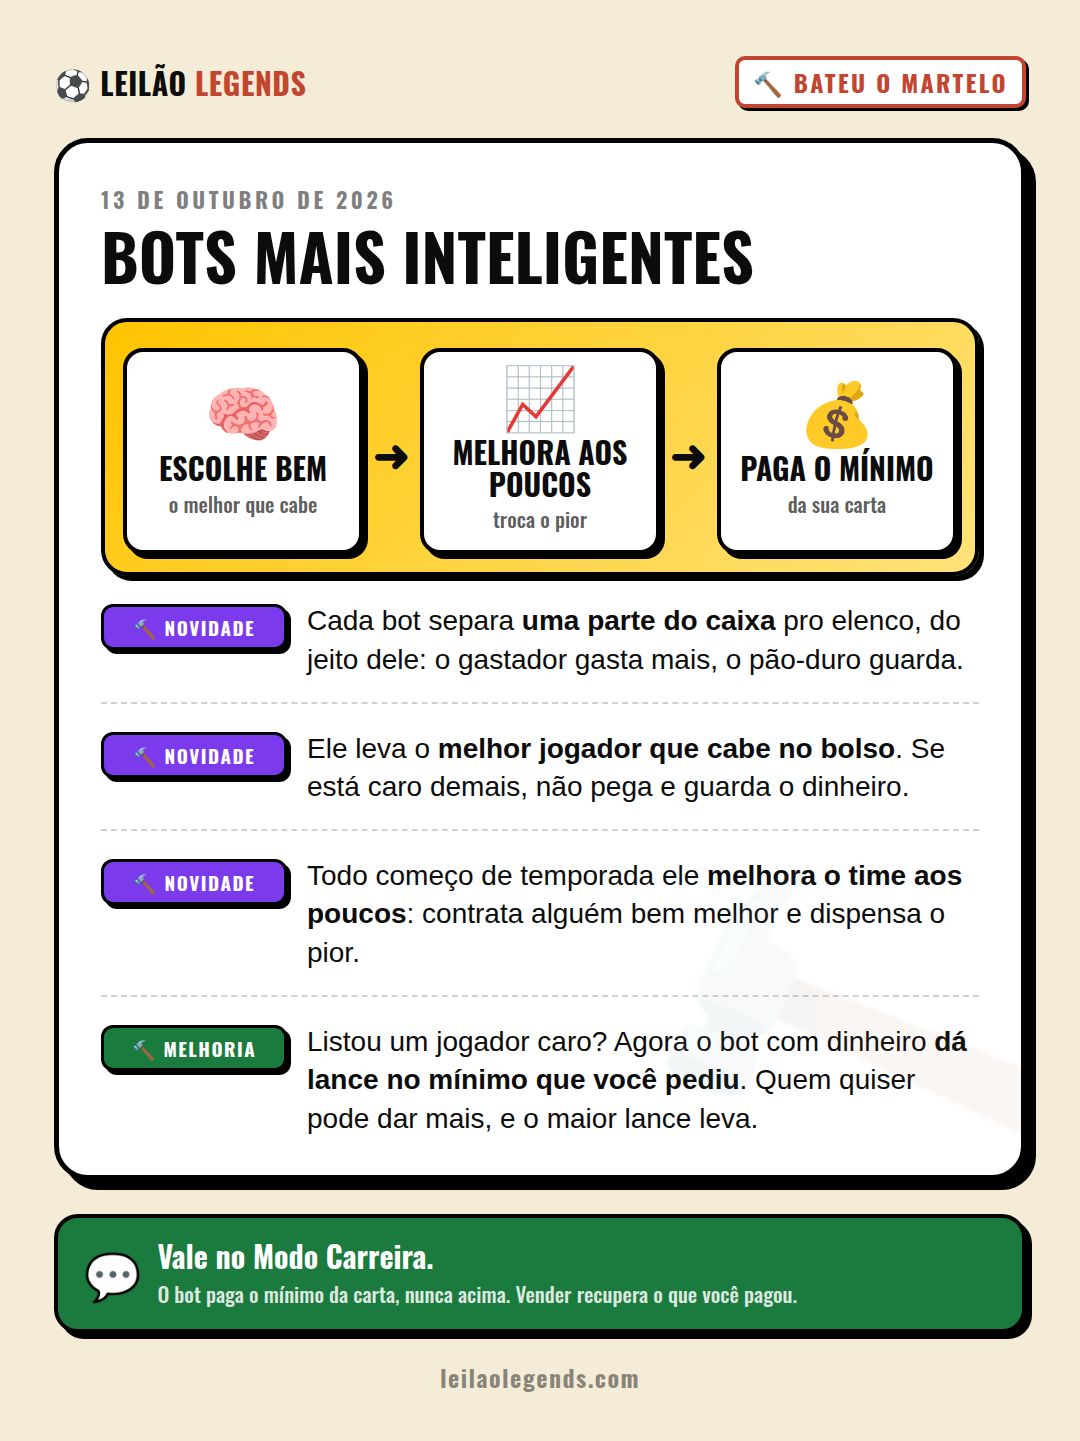
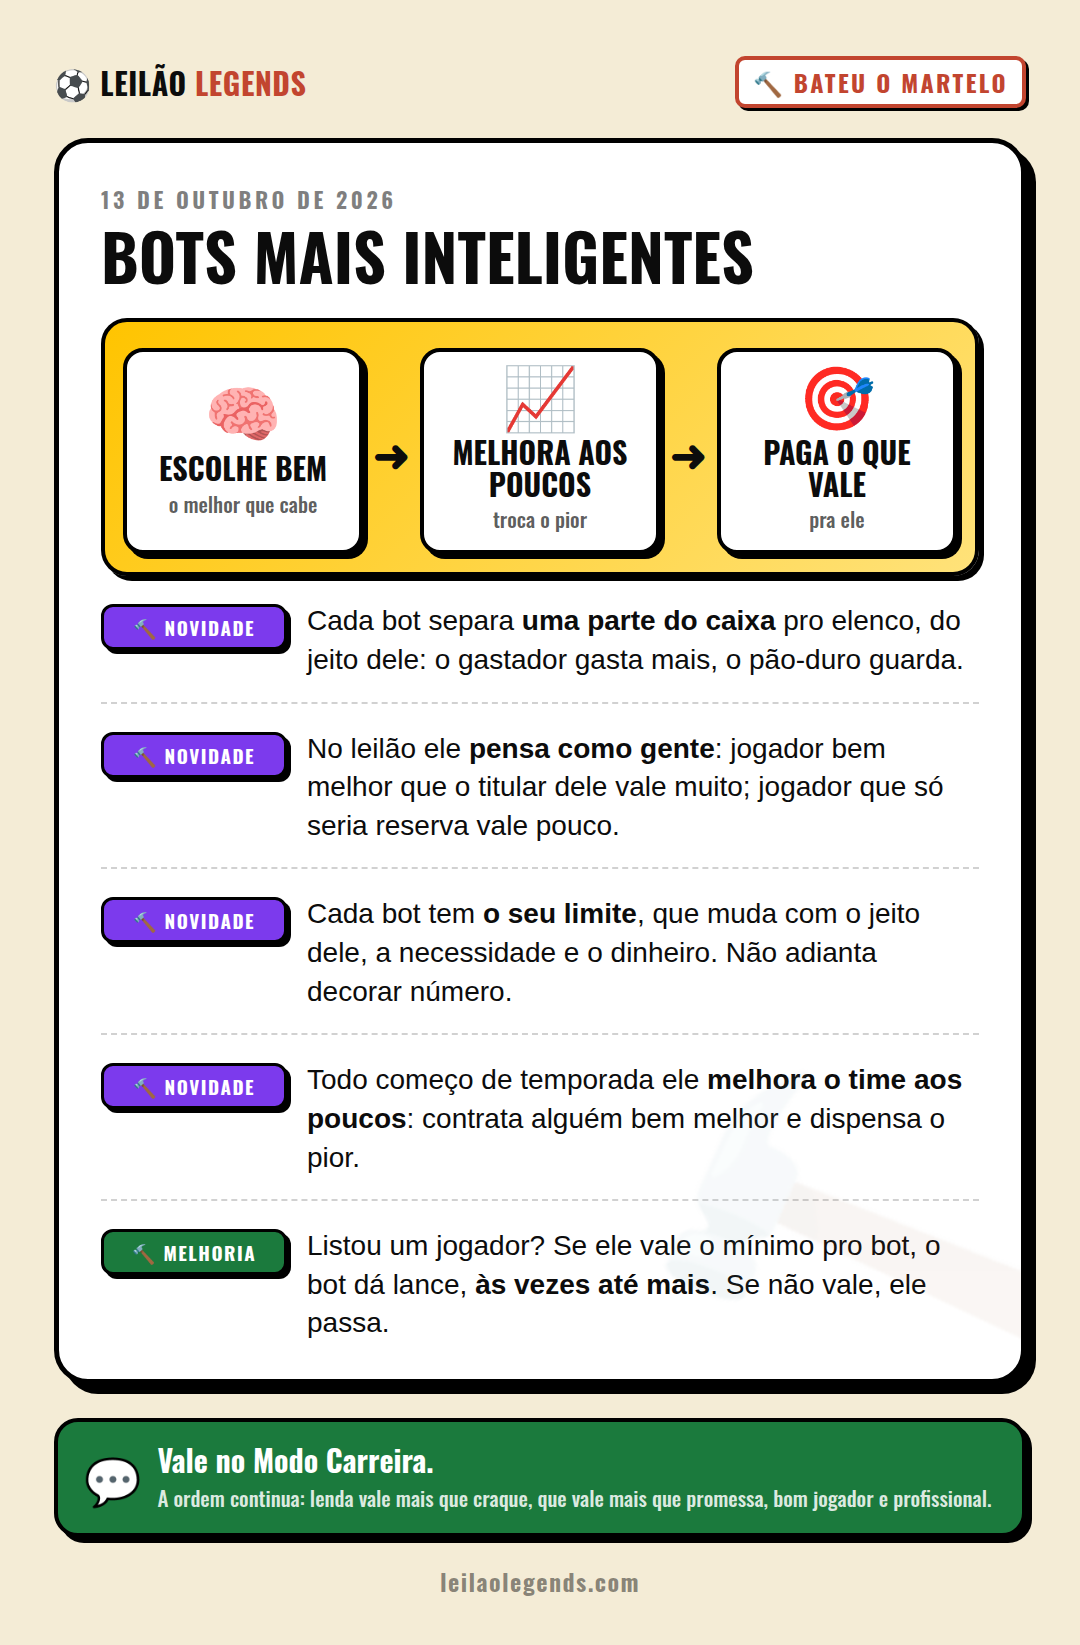
Carreira: bot pensa como gente no leilão — teto próprio por necessidade, bolso, perfil e tempero (ordem das categorias mantida), mínimo só filtra; exagero de qualquer bot não sobe o piso; aviso atualizado
Claude-Session: https://claude.ai/code/session_018Ap1zPCMVL9XeZJN3u93ZA

diff --git a/src/escalacao/store.tsx b/src/escalacao/store.tsx
@@ -2245,7 +2245,7 @@ function fairPrice(v: number): number {
 // 🎭 `perfil` (07/10, `perfis-bot.ts`): o jeito de comprar do clube bot NA CARREIRA —
 // gastador, pão-duro, obcecado, imprevisível ou equilibrado. 'equilibrado' (o padrão, e
 // o que partida rápida/salas sempre recebem) é o leilão de antes, sem mudar nem o rng.
-export function cpuEnvelope(m: Manager, cards: Card[], sectorIdx: number, rng: () => number, rescue: boolean, catCapEcon = 0, perfil: PerfilBot = 'equilibrado', obsessao?: Sector, pagaPisoDoDono = false): (Bid & { cardId: string })[] {
+export function cpuEnvelope(m: Manager, cards: Card[], sectorIdx: number, rng: () => number, rescue: boolean, catCapEcon = 0, perfil: PerfilBot = 'equilibrado', obsessao?: Sector, pensaComoGente = false): (Bid & { cardId: string })[] {
   const pos = SECTORS[sectorIdx]
   // FAKE NÃO SEGURA VAGA (só CPU): incógnito no elenco conta como vaga aberta —
   // o bot briga por jogador REAL e, se estourar o teto, o fake é dispensado no
@@ -2289,6 +2289,26 @@ export function cpuEnvelope(m: Manager, cards: Card[], sectorIdx: number, rng: (
     // alcançam ⭐ da mesma época, por mais rico que o bot seja.
     let cap = Math.max(2, Math.round(fairPrice(t.v) * (0.85 + m.aggression * 0.5 + rng() * 0.3) * (catCapEcon > 0 ? catCapEcon : 1)))
     if (catCapEcon > 0) cap = Math.min(cap, Math.max(2, Math.round(catPriceCap(t.c) * catCapEcon * (0.8 + rng() * 0.25))))
+    // 🧠 BOT QUE PENSA COMO GENTE (Diego 13/10, carreira solo): o teto deixa de ser o número fixo da
+    // categoria e vira o teto DESTE bot, nesta carta: categoria (lenda > craque > promessa > bom >
+    // profissional, sempre nessa ordem) × economia da sala × o quanto ele PRECISA do jogador × um
+    // tempero só dele (fixo por bot+carta, ninguém decora o número). Quem é bem melhor que o titular
+    // dele vale o teto cheio (e um pouco mais); parecido, ~60%; só reserva, ~35%. O perfil (gastador/
+    // pão-duro…) ainda mexe logo abaixo. O que ele pagar acima do justo NÃO sobe o piso da carta
+    // (`travaPisoDoBot`), então salário e renovação não disparam.
+    if (pensaComoGente) {
+      const nv = (c: { lo: number; hi: number }) => c.lo + c.hi
+      const titulares = m.squad.filter(c => c.pos === pos && !c.fake).sort((a, b) => nv(b) - nv(a)).slice(0, baseSlots(m.formation, pos))
+      const piorTitular = titulares.length < baseSlots(m.formation, pos) ? null : titulares[titulares.length - 1]
+      const ganho = piorTitular ? nv(t.c) - nv(piorTitular) : 99
+      const necessidade = ganho >= 6 ? 1.15 : ganho >= -4 ? 0.6 : 0.35
+      let hh = 2166136261; const chaveT = `${m.id}|${t.c.name}|${t.c.club}|${t.c.year}`
+      for (let k = 0; k < chaveT.length; k++) { hh ^= chaveT.charCodeAt(k); hh = Math.imul(hh, 16777619) }
+      const tempero = 0.85 + ((hh >>> 0) % 1000) / 1000 * 0.3 // 0,85–1,15
+      cap = Math.max(2, Math.round(catPriceCap(t.c) * (catCapEcon > 0 ? catCapEcon : 1) * necessidade * tempero))
+      // 💰 o bolso: numa carta só, até metade do caixa se for titular; até 1/3 se for reserva
+      cap = Math.min(cap, Math.max(2, Math.floor(m.money * (ganho >= 6 ? 0.5 : 0.34))))
+    }
     // 🧱 pacote vale pelos jogadores que o bot vai escalar dele, não por um só
     if (t.c.pacote) cap = cap * Math.max(1, baseSlots(m.formation, pos))
     // 🎭 perfil mexe no teto (gastador estica por craque, pão-duro nunca passa do justo…)
@@ -2303,15 +2323,10 @@ export function cpuEnvelope(m: Manager, cards: Card[], sectorIdx: number, rng: (
     const floor = (t.c as { paid?: number }).paid ?? 0
     if (floor > 0) {
       if (wallet < floor) continue
-      if (cap + 3 < floor) {
-        // 💰 O BOT ALCANÇA O MÍNIMO DO DONO (Diego 13/10, carreira): carta com mínimo acima do que
-        // ele acha que vale — o caso do Marcelo listado a 194 que nenhum bot olhava. Se o clube tem
-        // caixa (o mínimo cabe em 1/3 do dinheiro dele), ele dá EXATAMENTE o mínimo, nunca mais:
-        // assim quem listou recupera o que pagou, mas não dá pra lucrar comprando e listando.
-        // Gente pode dar mais junto; o envelope maior leva, como sempre.
-        if (!pagaPisoDoDono || floor * 3 > m.money) continue
-        amt = floor
-      } else amt = Math.max(amt, floor)
+      // igual gente: se o que a carta vale PRA ELE não chega no mínimo, não dá lance; se chega,
+      // o lance fica entre o mínimo e o teto dele (13/10 — saiu o "ir até o mínimo" do mesmo dia)
+      if (cap + 3 < floor) continue
+      amt = Math.max(amt, floor)
     }
     amt = Math.min(amt, wallet)
     if (amt > 0) { result.push({ mgr: m.id, amount: amt, cardId: t.c.id }); left -= amt; wallet -= amt }
@@ -2323,7 +2338,7 @@ export function cpuEnvelope(m: Manager, cards: Card[], sectorIdx: number, rng: (
 function perfilNoLeilao(state: EscState, m: Manager): [PerfilBot, Sector | undefined, boolean] {
   if (!state.careerOnline || m.isHuman) return ['equilibrado', undefined, false]
   const p = perfilDoClube(m.teamName, state.seed ?? 0)
-  // 3º: o bot pode alcançar o mínimo do dono (13/10) — só carreira solo, junto do rival com banco
+  // 3º: o bot PENSA COMO GENTE (13/10): teto pela necessidade + bolso — só carreira solo, junto do rival com banco
   return [p, p === 'obcecado' ? setorDaObsessao(m.teamName, state.seasonNo ?? 1) as Sector : undefined, state.onlineMode !== 'online' && botBancoLiberado()]
 }
 // 🚫📈 o PREÇO JUSTO da carta pra o livro e pro piso (o exagero do gastador não entra):
@@ -2338,8 +2353,8 @@ export function justoDaCarta(state: EscState, c: Card): number {
 // registrada pelo justo (livro + `paid` no elenco dele). Quem vendeu recebe o valor cheio.
 export function travaPisoDoBot(state: EscState, w: Manager | undefined, card: Card, pago: number): number {
   if (!w || w.isHuman || !state.careerOnline) return pago
-  const [perfil] = perfilNoLeilao(state, w)
-  if (!perfilPagaAcima(perfil)) return pago
+  const [perfil, , pensa] = perfilNoLeilao(state, w)
+  if (!perfilPagaAcima(perfil) && !pensa) return pago // 🧠 13/10: com o bot que pensa, vale pra TODO bot
   const justo = justoDaCarta(state, card)
   if (pago <= justo) return pago
   const naMao = w.squad.find(x => x.id === card.id)

diff --git a/docs/pendencias.md b/docs/pendencias.md
@@ -8,7 +8,7 @@ Diego: "pode fazer" + 3 avisos separados (`scripts/avisos/2026-10-13-rivais-{22,
 - 22: no Leilão de Reservas todo bot vira `deepSquad` e gasta o caixa; no FINISH_CEREMONY `completaBancoDosBots` fecha 2 por posição com sobra REAL pagando `justoDaCarta` (nunca incógnito).
 - Os 3 caminhos da virada (Diego: *"o bot também pode participar de qualquer leilão novo"*): **Leilão de Transferências** (bot mira 22 no pregão + completa depois) · **Leilão novo do zero** (todo mundo monta 11, o bot completa o banco no fim da cerimônia) · **Mesmo time** (sem leilão: o bot completa o banco no `CONFIRM_MESMO_TIME`).
 - 🧠 Bot ESPERTO no banco (Diego: *"ele pega se ele quiser… e vai melhorando aos poucos"*): separa uma parte do caixa pelo perfil (gastador 60% · pão-duro 25% · …), em cada vaga leva o MELHOR que cabe na verba (caro demais = não pega), e todo começo de temporada faz 1 troca (2 o gastador) se tiver sem-clube +6 de nível melhor que o pior do elenco — dispensa o pior.
-- 💰 O bot ALCANÇA O MÍNIMO DO DONO (Diego 13/10, "Sim. Isso"): carta listada com mínimo acima do teto do bot → bot com caixa (mínimo ≤ 1/3 do caixa) dá EXATAMENTE o mínimo, nunca acima (anti-esquema de lucro). Gente pode dar mais. Só carreira solo (`perfilNoLeilao` 3º item). Aviso: `scripts/posts/aviso-bots-inteligentes.png`. Resolve o pendente "teto do bot crescer sem extrapolar" (20/09).
+- 🧠 O bot PENSA COMO GENTE no leilão (Diego 13/10, "pode fazer e publique"): teto = categoria (lenda 90 › craque 65 › promessa 42 › bom 26 › prof 16) × economia × NECESSIDADE (bem melhor que o pior titular 1,15 · parecido 0,6 · reserva 0,35) × tempero fixo por bot+carta (0,85–1,15) × perfil; bolso: até ½ do caixa se vira titular, ⅓ se reserva. Mínimo acima do que vale pra ele → não dá lance; senão lance entre o mínimo e o teto. `travaPisoDoBot` vale pra TODO bot (exagero não sobe piso). Substituiu o "ir até o mínimo do dono" do mesmo dia. Valores da tabela NÃO mudaram (decisão: piso mexe em salário/renovação de todo save).
 - Dinheiro: patrocínio no `balancoBot` + prêmio de colocação (`premiosColocacaoBots`) no `clubRewards` da virada.
 - Central: notícias de DM, poupados e desfalque do seu próximo adversário.
 - [x] Liberado pra todos + linha em novidades.ts. Os 3 avisos prontos em `scripts/posts/aviso-rivais-*.png` (Diego posta).

diff --git a/CLAUDE.md b/CLAUDE.md
@@ -773,8 +773,10 @@ As sessões não se veem — o repo é a memória comum. Então TODA sessão dev
   leilão da virada + completam com jogador sem clube, pagando; também no "mesmo time"), cansaço e lesão com a MESMA régua
   do humano (só com o gás ligado, C+, e só de temporada nova em diante), patrocínio (= Master de 2 temp.) e prêmio pela
   colocação. **O bot é ESPERTO** (*"ele pega se ele quiser… e vai melhorando aos poucos"*): verba pelo perfil, o melhor que
-  cabe na vaga, 1 melhora por temporada. Nunca incógnito. **E alcança o mínimo do dono** (*"Sim. Isso"*): carta
-  listada cara → o bot com caixa dá EXATAMENTE o mínimo (≤ 1/3 do caixa), nunca acima — senão vira esquema de lucro. Motor em `bots-banco.ts`; trava `npm run bots-banco`.
+  cabe na vaga, 1 melhora por temporada. Nunca incógnito. **E no leilão PENSA COMO GENTE** (13/10): teto de CADA bot =
+  categoria × economia × necessidade (bem melhor que o titular / parecido / reserva) × tempero × perfil, limitado pelo bolso; o
+  mínimo só filtra (não vale pra ele = não dá lance). Ordem das categorias nunca inverte. **Os valores da tabela não mudam**
+  (piso = salário/renovação de todo save) e o exagero do bot nunca sobe o piso. Motor em `bots-banco.ts`; trava `npm run bots-banco`.
 
 - **🐊 SOLTA A MASCOTE NO MONTE: QUALQUER SALA, 5s DE ESPERA (29/09).** Revoga o "só no Monte da Tocaia" de
   21/09. Palavras dele: *"nessa área aqui seja pra qualquer tipo: Clubes, Jogador, Tocaia ou Envelope… coloque
